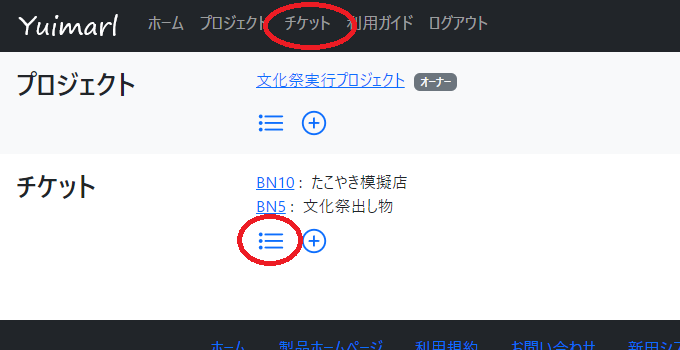
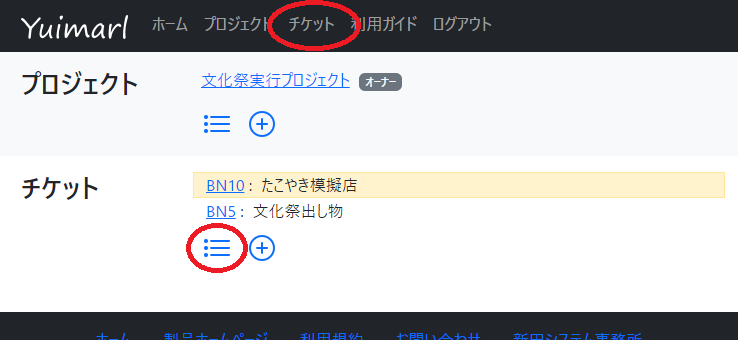
update

diff --git a/howtouse.html b/howtouse.html
@@ -256,6 +256,7 @@
                     <p>「親チケットを追加」ダイアログが表示されます。<br>親チケットの ID を入力して「検索」をクリックすると、チケットが検索されるので、「親チケットを追加」ボタンをクリックすると、親チケットが設定されます。</p><a href="images/screen73.png"><img class="border border-info border-1 img-fluid" src="images/screen73.png"></a>
                     <p class="pt-2">チケットの成果物を登録するには、「成果物」欄にある&nbsp;<img class="icon3" src="images/ionicons/add-circle-outline.svg">&nbsp;アイコンをクリックします。</p>
                     <p>「成果物を追加」ダイアログが表示されます。<br>「成果物名」と「ファイルパス / URL」を入力してください。成果物がファイルサーバーにある場合は「ファイルパス」、Web上にある場合は「URL」を入力してください。<br>「追加」ボタンをクリックすると、成果物が設定されます。</p><a href="images/screen74.png"><img class="border border-info border-1 img-fluid" src="images/screen74.png"></a>
+                    <p class="pt-2">担当者の中に自分が入っていると、「背景色」欄が表示されます。<br>背景色を選択すると、ホーム画面で表示されるチケットの背景がその色になります。これは、自分用の設定です。他の人には反映されません。</p><a href="images/screen85.png"><img class="border border-info border-1 img-fluid" src="images/screen85.png"></a>
                     <p class="pt-2">入力が終わったら、「作成」を選択します。</p>
                     <hr>
                   </section>
